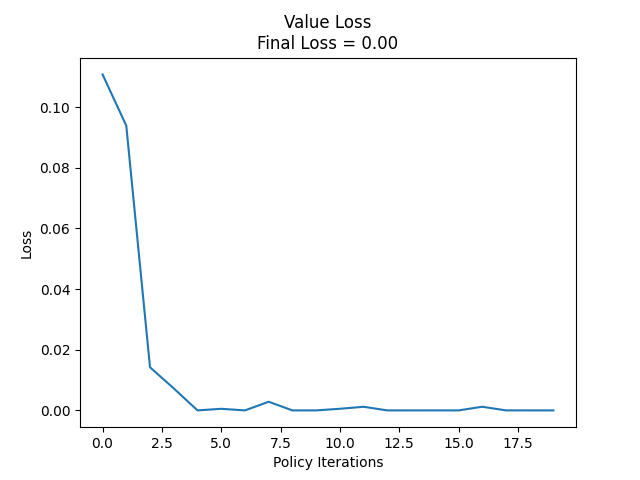
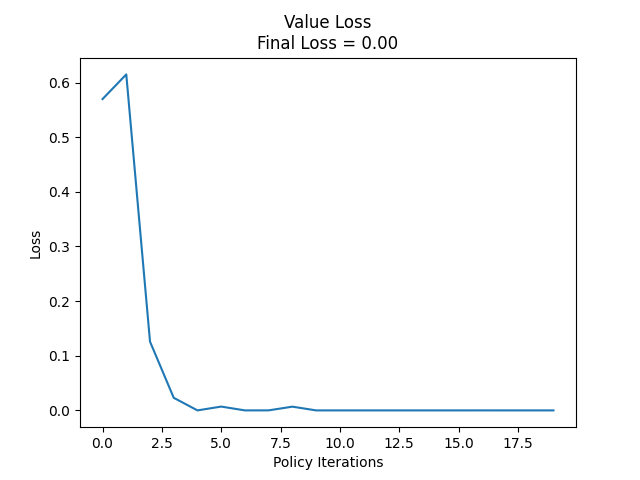
update eps in normalization to 1e-3

diff --git a/Utils/train.py b/Utils/train.py
@@ -247,7 +247,7 @@ class PPO_Solver(Solver):
             payoff_lst = torch.tensor(value_dct[t]["payoff"]).to(device = self.device)
             if update_value_scale:
                 if not self.use_avg_value:
-                    mu, sd = 0, torch.std(payoff_lst) + 1 #torch.mean(payoff_lst), torch.std(payoff_lst) + 1 #(self.time_horizon - t)
+                    mu, sd = 0, torch.std(payoff_lst) + 1e-3 #torch.mean(payoff_lst), torch.std(payoff_lst) + 1 #(self.time_horizon - t)
                 else:
                     mu, sd = 0, 1
                 self.value_scale[t] = (mu, sd)
@@ -259,7 +259,7 @@ class PPO_Solver(Solver):
                     input_norm_mean = torch.mean(state_counts_lst, dim = 0)
                     input_norm_std = torch.std(state_counts_lst, dim = 0)
                     input_scale_mean = input_norm_mean
-                    input_scale_std = torch.max(input_norm_std, torch.tensor(1.))
+                    input_scale_std = torch.max(input_norm_std, torch.tensor(1e-3))
                     self.input_scale[t] = {"mu": input_scale_mean, "std": input_scale_std}
                 state_counts_lst = state_counts_lst[:,:self.value_input_dim]
 #                state_counts_lst = torch.vstack(value_dct[t]["state_counts"]).to_dense()
